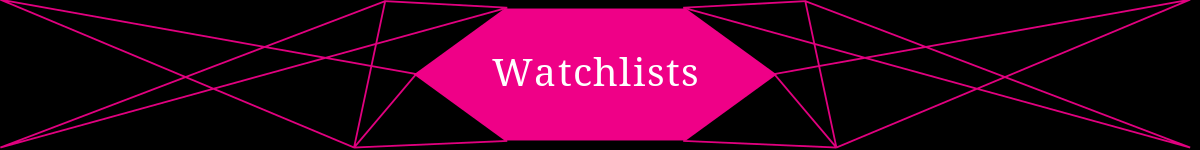
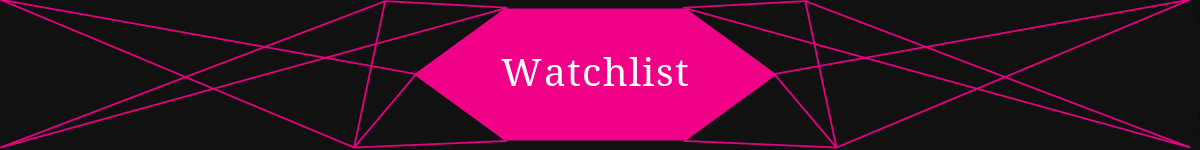
CHANGED main black

Changed region(s): [[0.4008, 0.3733, 0.5858, 0.5867]]

diff --git a/css/general.css b/css/general.css
@@ -5,7 +5,7 @@
     --main-pink: #BF006C;
     --darker-pink1: #2F1323;
     --darker-pink2: #650039;
-    --main-black: #000000;
+    --main-black: #111111;
 }
 
 body {
